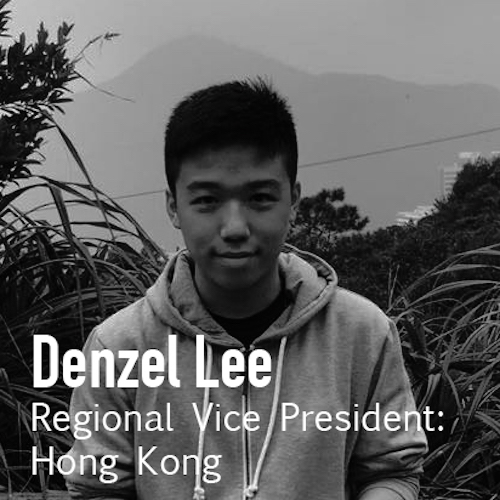
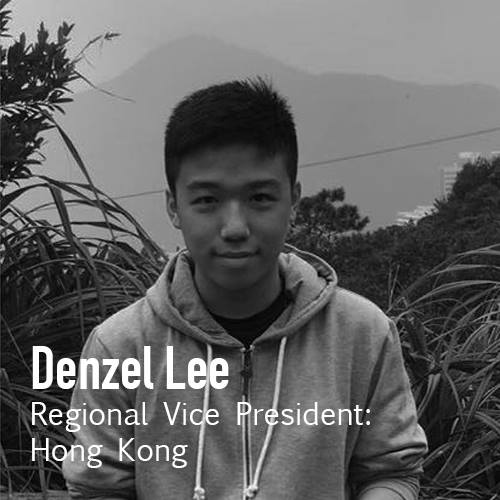
edited 404 page, added denzel image

diff --git a/404.html b/404.html
@@ -1,7 +1,7 @@
 ---
 layout: default
 title: Page Not Found - Support! International
-permalink: /notfound/
+permalink: /404.html
 ---
 <div class="wrapper style2">
     <div class="container">
